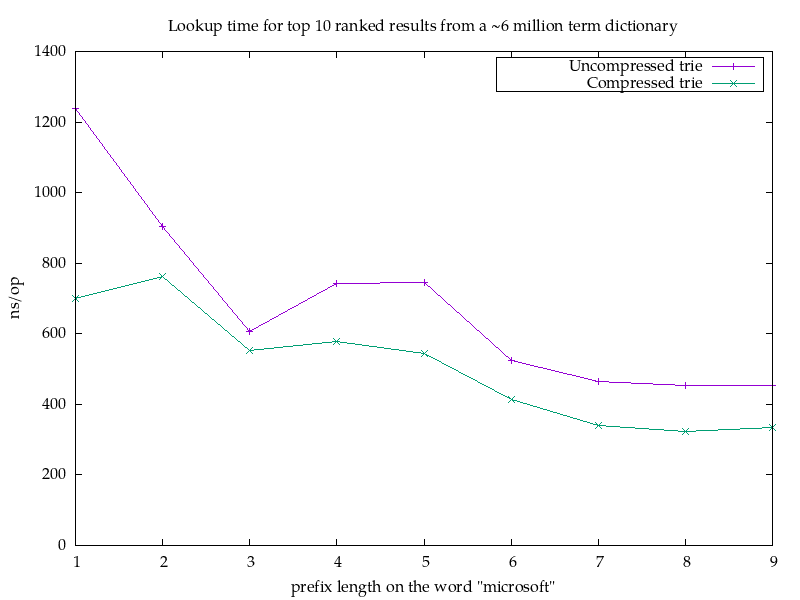
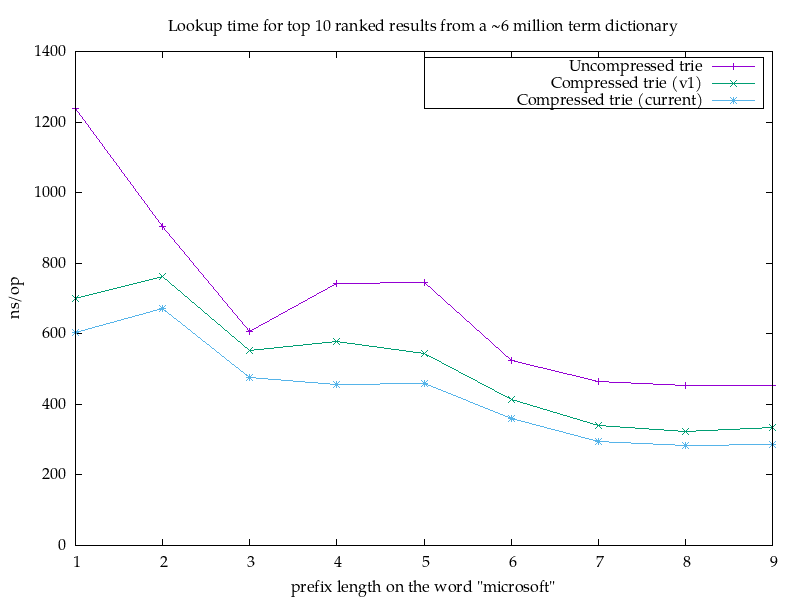
Update performance image

Changed region(s): [[0.625, 0.12, 0.9375, 0.18], [0.625, 0.69, 0.6562, 0.72]]

diff --git a/ptrie_test.go b/ptrie_test.go
@@ -46,15 +46,15 @@ func printFound(t *testing.T, pt *PTrie[empty], prefix string) {
 // goarch: amd64
 // pkg: olympos.io/container/pruning-radix-trie
 // cpu: AMD Ryzen 7 5800X 8-Core Processor
-// BenchmarkMicrosoft/m-16  	 1723411	       700.8 ns/op	       0 B/op	       0 allocs/op
-// BenchmarkMicrosoft/mi-16 	 1546321	       763.2 ns/op	       0 B/op	       0 allocs/op
-// BenchmarkMicrosoft/mic-16         	 2158534	       553.8 ns/op	       0 B/op	       0 allocs/op
-// BenchmarkMicrosoft/micr-16        	 2235819	       579.3 ns/op	       0 B/op	       0 allocs/op
-// BenchmarkMicrosoft/micro-16       	 2211950	       542.9 ns/op	       0 B/op	       0 allocs/op
-// BenchmarkMicrosoft/micros-16      	 2881760	       414.6 ns/op	       0 B/op	       0 allocs/op
-// BenchmarkMicrosoft/microso-16     	 3480234	       340.4 ns/op	       0 B/op	       0 allocs/op
-// BenchmarkMicrosoft/microsof-16    	 3700550	       324.2 ns/op	       0 B/op	       0 allocs/op
-// BenchmarkMicrosoft/microsoft-16   	 3632427	       334.5 ns/op	       0 B/op	       0 allocs/op
+// BenchmarkMicrosoft/m-16  	 2016354	       602.3 ns/op	       0 B/op	       0 allocs/op
+// BenchmarkMicrosoft/mi-16 	 1750233	       670.4 ns/op	       0 B/op	       0 allocs/op
+// BenchmarkMicrosoft/mic-16         	 2571133	       477.2 ns/op	       0 B/op	       0 allocs/op
+// BenchmarkMicrosoft/micr-16        	 2637111	       457.0 ns/op	       0 B/op	       0 allocs/op
+// BenchmarkMicrosoft/micro-16       	 2573302	       458.7 ns/op	       0 B/op	       0 allocs/op
+// BenchmarkMicrosoft/micros-16      	 3297351	       360.0 ns/op	       0 B/op	       0 allocs/op
+// BenchmarkMicrosoft/microso-16     	 4091931	       293.5 ns/op	       0 B/op	       0 allocs/op
+// BenchmarkMicrosoft/microsof-16    	 4289718	       283.3 ns/op	       0 B/op	       0 allocs/op
+// BenchmarkMicrosoft/microsoft-16   	 4238191	       287.2 ns/op	       0 B/op	       0 allocs/op
 
 func BenchmarkMicrosoft(b *testing.B) {
 	var items []Item[empty]
